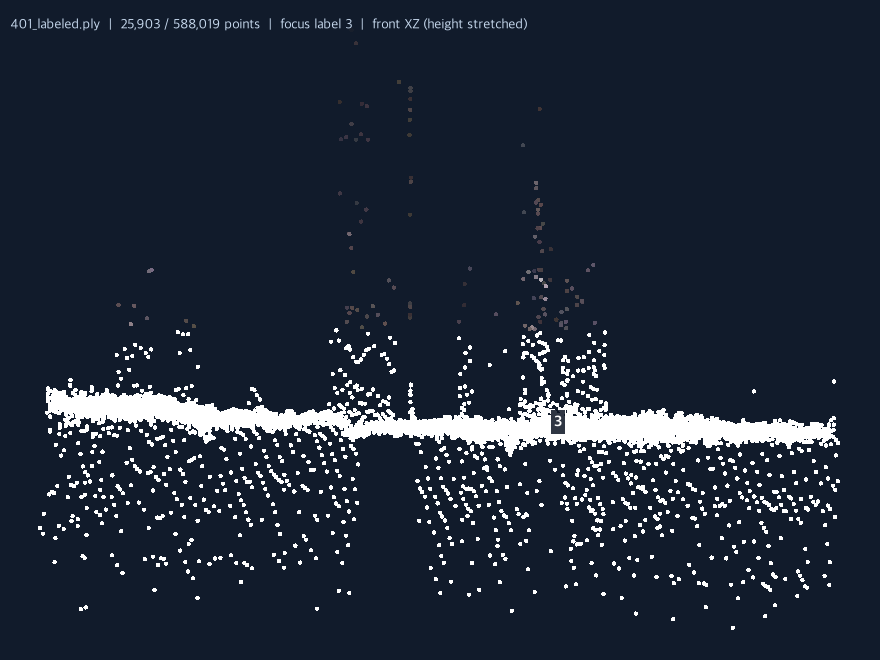
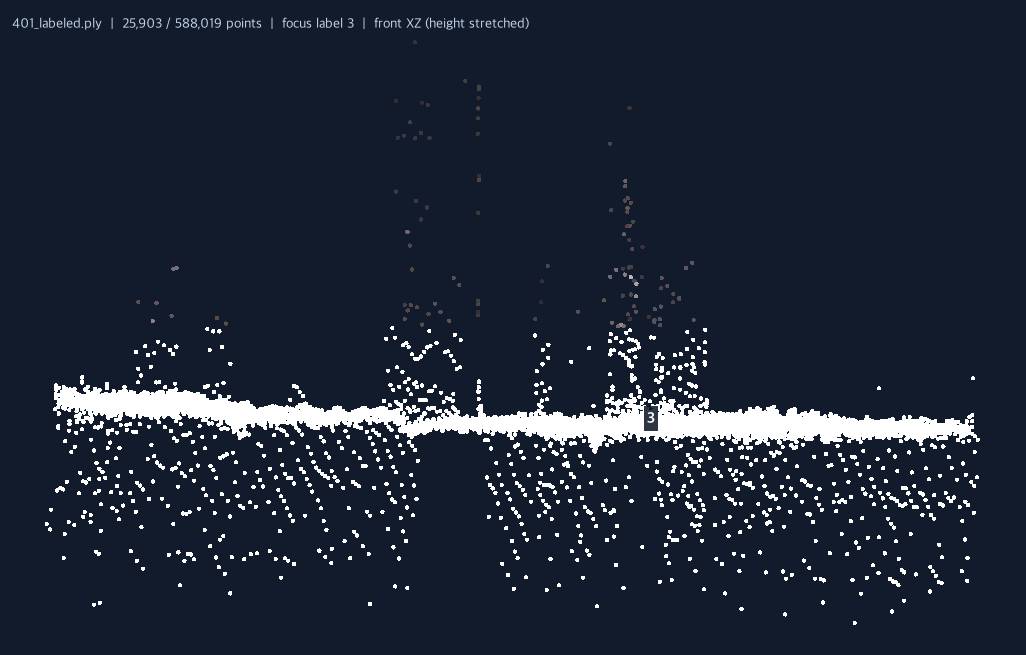
Keep the figure following its widget
The resize handler added with the last change bound <Configure> without
add='+', which replaced the Tk backend's own handler. The figure then stayed
at its starting 800x600 inside a 933x596 canvas, so everything drew smaller
than the space it had.

The smoke check now asserts the figure and its widget agree on the size.

Claude-Session: https://claude.ai/code/session_01SARFesN4KJQnFvWvZox36e

diff --git a/test_app_view_smoke.py b/test_app_view_smoke.py
@@ -11,6 +11,12 @@ def main():
     root=tk.Tk()
     try:
         app=App(root);root.update()
+        # The figure has to keep following its widget: binding <Configure>
+        # without add='+' takes the backend's own resize handler away and the
+        # drawing freezes at its starting size inside a larger canvas.
+        widget=app.canvas.get_tk_widget()
+        assert app.canvas.get_width_height()==(widget.winfo_width(),widget.winfo_height()),(
+            app.canvas.get_width_height(),widget.winfo_width(),widget.winfo_height())
         path=Path(__file__).resolve().parent/'results/region_link_v5/example/401_labeled.ply'
         app.ply,app.xyz=read_cloud(path);app.current=path
         app.labels=app.ply['vertex'].data[LABEL].astype(np.int32)

diff --git a/app.py b/app.py
@@ -120,7 +120,9 @@ class App:
   self.canvas=FigureCanvasTkAgg(self.fig,master=right);self.canvas.get_tk_widget().pack(fill='both',expand=True)
   self.toolbar=Toolbar(self.canvas,right);self.lasso=None
   theme.style_toolbar(self.toolbar,fonts)
-  self.canvas.get_tk_widget().bind('<Configure>',self.on_resize)
+  # add='+', or this replaces the backend's own handler and the figure stops
+  # following the widget.
+  self.canvas.get_tk_widget().bind('<Configure>',self.on_resize,add='+')
   self.canvas.mpl_connect('scroll_event',self.zoom)
   self.canvas.mpl_connect('button_press_event',self.start_move)
   self.canvas.mpl_connect('motion_notify_event',self.pan_move)

diff --git a/CHANGELOG.md b/CHANGELOG.md
@@ -37,7 +37,7 @@
 - 라벨을 바꾼 점의 `scalar_review_needed`를 0으로 내립니다. 사람이 확인한 점으로 봅니다.
 
 ### Fixed
-- **확대하면 화면에 보이는 점의 상당수가 클릭도 드래그도 되지 않던 문제.** 네 칸 확대한 화면 기준으로 3D는 그려진 점의 32%, 위에서 보기는 22%가 마우스에 반응하지 않았습니다. matplotlib이 3D 축 영역을 정사각형으로 잡고 같은 비율 보기의 축 영역을 줄이는데, 점군은 그 바깥까지 그려졌기 때문입니다. 축 영역이 화면 전체를 덮도록 바꿨고, 창 크기를 바꾸면 다시 맞춥니다. 화면에 보이는 크기와 위치는 그대로입니다.
+- **확대하면 화면에 보이는 점의 상당수가 클릭도 드래그도 되지 않던 문제.** 네 칸 확대한 화면 기준으로 3D는 그려진 점의 32%, 위에서 보기는 22%가 마우스에 반응하지 않았습니다. matplotlib이 3D 축 영역을 정사각형으로 잡고 같은 비율 보기의 축 영역을 줄이는데, 점군은 그 바깥까지 그려졌기 때문입니다. 축 영역이 화면 전체를 덮도록 바꿨고, 창 크기를 바꾸면 다시 맞춥니다. 3D의 점군 크기와 위치는 그대로이고, 평면 보기는 가장자리 여백이 없어져 2% 커집니다.
 - **3D에서 클릭이 눈에 보이는 부재 대신 뒤에 가려진 것을 고르던 문제.** 다섯 번에 한 번 꼴이었습니다. 이제 커서 아래에서 보는 사람에게 가장 가까운 점을 고릅니다. 위에서 보기에서는 가장 높은 점입니다.
 - **가려진 하나의 부자재를 여러 물체로 나누던 과분할.** 401번은 정답 9개에 자동 15개였으나 v5에서 9개가 됐습니다.
 - **부자재에 둘러싸인 팔레트 점이 부자재로 바뀌던 문제.** 171번에서 물체 7에 붙은 정답 팔레트 점이 35,146개에서 66개로 줄었습니다.
